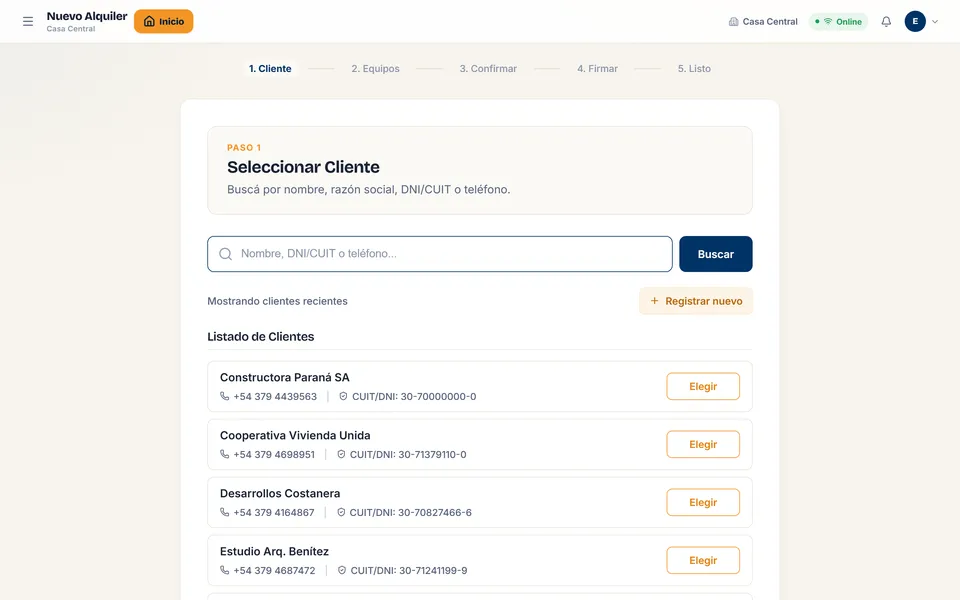
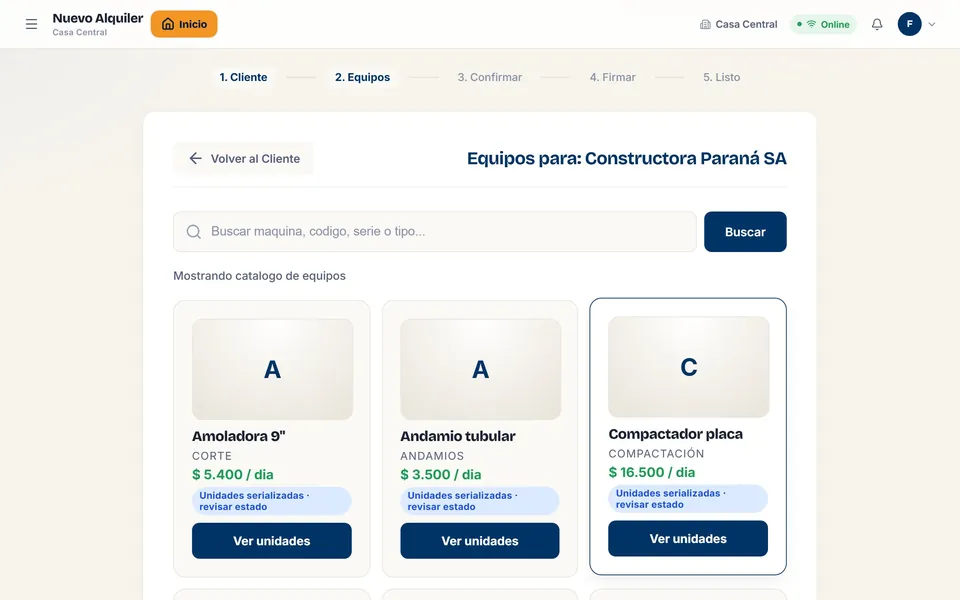
Refresh RENT-OS screenshots and texts, and link its landing page

diff --git a/src/content/es.ts b/src/content/es.ts
@@ -107,18 +107,19 @@ export const es: Content = {
       title: 'RENT-OS',
       kind: 'Proyecto laboral · BIAMAQ · Plataforma full-stack',
       summary:
-        'Plataforma de alquiler de equipos desarrollada para la reingeniería del módulo de Alquiler de BIAMAQ, pensada como plataforma multiempresa y multisucursal. Cubre el ciclo completo del alquiler: wizard de reserva, contrato firmado, entrega técnica, devolución, cierre con días facturables y taller.',
+        'Plataforma de alquiler de equipos que nació como la reingeniería del módulo de Alquiler de BIAMAQ y hoy es un producto para cualquier empresa de alquiler de equipos. Multiempresa y multisucursal, cubre el ciclo completo del alquiler: wizard de reserva, contrato firmado, entrega técnica, devolución, cierre con días facturables y taller.',
       highlights: [
         'Backend en Django REST Framework con arquitectura hexagonal, sobre PostgreSQL o SQL Server.',
         'Contratos en PDF firmados en tableta Wacom y facturación electrónica ARCA multiempresa.',
         'Sincroniza con el ERP legacy de la empresa en SQL Server y también funciona de forma independiente.',
         'Frontend en React 19 con Tailwind, Recharts y Framer Motion; tests end-to-end con Playwright; Docker y CI con deploy automático, migraciones y smoke tests.',
+        'Landing de venta con funciones, recorrido guiado y tres planes (Esencial, Profesional y Empresa, este último con integración al ERP).',
       ],
       images: [
-        { src: '/images/rentos-login-thumb.webp', href: '/images/rentos-login.webp', alt: 'Pantalla de inicio de sesión de RENT-OS' },
-        { src: '/images/rentos-inventory-thumb.webp', href: '/images/rentos-inventory.webp', alt: 'Inventario con stock por sucursal, precio diario y disponibilidad' },
-        { src: '/images/rentos-new-rental-thumb.webp', href: '/images/rentos-new-rental.webp', alt: 'Wizard de cinco pasos para crear un nuevo alquiler' },
-        { src: '/images/rentos-workshop-thumb.webp', href: '/images/rentos-workshop.webp', alt: 'Tablero kanban del taller con equipos ingresados, en reparación y listos' },
+        { src: '/images/rentos-new-rental-thumb.webp', href: '/images/rentos-new-rental.webp', alt: 'Asistente de alquiler, paso 2: catálogo de equipos con precio por día' },
+        { src: '/images/rentos-bi-thumb.webp', href: '/images/rentos-bi.webp', alt: 'Vista de Gestión & BI con facturación, ocupación y rentabilidad por equipo' },
+        { src: '/images/rentos-workshop-thumb.webp', href: '/images/rentos-workshop.webp', alt: 'Taller con contadores, días en reparación y alerta de demora' },
+        { src: '/images/rentos-returns-thumb.webp', href: '/images/rentos-returns.webp', alt: 'Devolución de un alquiler con el resumen del cobro' },
       ],
       imagesNote: 'Pantallas con datos de ejemplo. Clic para ampliar.',
     },

diff --git a/src/content/en.ts b/src/content/en.ts
@@ -107,18 +107,19 @@ export const en: Content = {
       title: 'RENT-OS',
       kind: 'Work project · BIAMAQ · Full-stack platform',
       summary:
-        'Equipment rental platform built for BIAMAQ’s re-engineering of its Rental module, built as a multi-company, multi-branch platform. It covers the full rental cycle: booking wizard, signed contract, technical delivery, return, billable-days close and workshop.',
+        'Equipment rental platform that started as the re-engineering of BIAMAQ’s Rental module and is now a product for any equipment rental company. Multi-company and multi-branch, it covers the full rental cycle: booking wizard, signed contract, technical delivery, return, billable-days close and workshop.',
       highlights: [
         'Django REST Framework backend with a hexagonal architecture, on PostgreSQL or SQL Server.',
         'PDF contracts signed on a Wacom tablet, and multi-company electronic invoicing with ARCA (Argentina’s tax authority).',
         'Syncs with the company’s legacy SQL Server ERP, and also runs standalone without it.',
         'React 19 frontend with Tailwind, Recharts and Framer Motion; Playwright end-to-end tests; Docker and CI with automatic deploys, migrations and smoke tests.',
+        'Sales landing page with features, a guided tour and three plans (Essential, Professional and Enterprise, the last one with ERP integration).',
       ],
       images: [
-        { src: '/images/rentos-login-thumb.webp', href: '/images/rentos-login.webp', alt: 'RENT-OS login screen' },
-        { src: '/images/rentos-inventory-thumb.webp', href: '/images/rentos-inventory.webp', alt: 'Inventory with stock by branch, daily price and availability' },
-        { src: '/images/rentos-new-rental-thumb.webp', href: '/images/rentos-new-rental.webp', alt: 'Five-step wizard to create a new rental' },
-        { src: '/images/rentos-workshop-thumb.webp', href: '/images/rentos-workshop.webp', alt: 'Workshop kanban board with incoming, in-repair and ready equipment' },
+        { src: '/images/rentos-new-rental-thumb.webp', href: '/images/rentos-new-rental.webp', alt: 'Rental wizard, step 2: equipment catalog with the price per day' },
+        { src: '/images/rentos-bi-thumb.webp', href: '/images/rentos-bi.webp', alt: 'Management & BI view with billing, occupancy and profitability per equipment' },
+        { src: '/images/rentos-workshop-thumb.webp', href: '/images/rentos-workshop.webp', alt: 'Workshop with counters, days in repair and a delay alert' },
+        { src: '/images/rentos-returns-thumb.webp', href: '/images/rentos-returns.webp', alt: 'Returning a rental, with a summary of the amount to charge' },
       ],
       imagesNote: 'Screens shown with sample data. Click to enlarge.',
     },

diff --git a/src/data/projects.ts b/src/data/projects.ts
@@ -41,7 +41,7 @@ export const projects: {
     group: 'professional',
     gallery: 'wide',
     stack: ['Django REST Framework', 'PostgreSQL', 'SQL Server', 'React', 'Tailwind CSS', 'Playwright', 'Docker'],
-    links: [],
+    links: [{ kind: 'live', href: 'https://alquileres.biamaq.com.ar/landing/' }],
   },
   {
     // TODO: add stack and a { kind: 'live', href } link once it's deployed.
